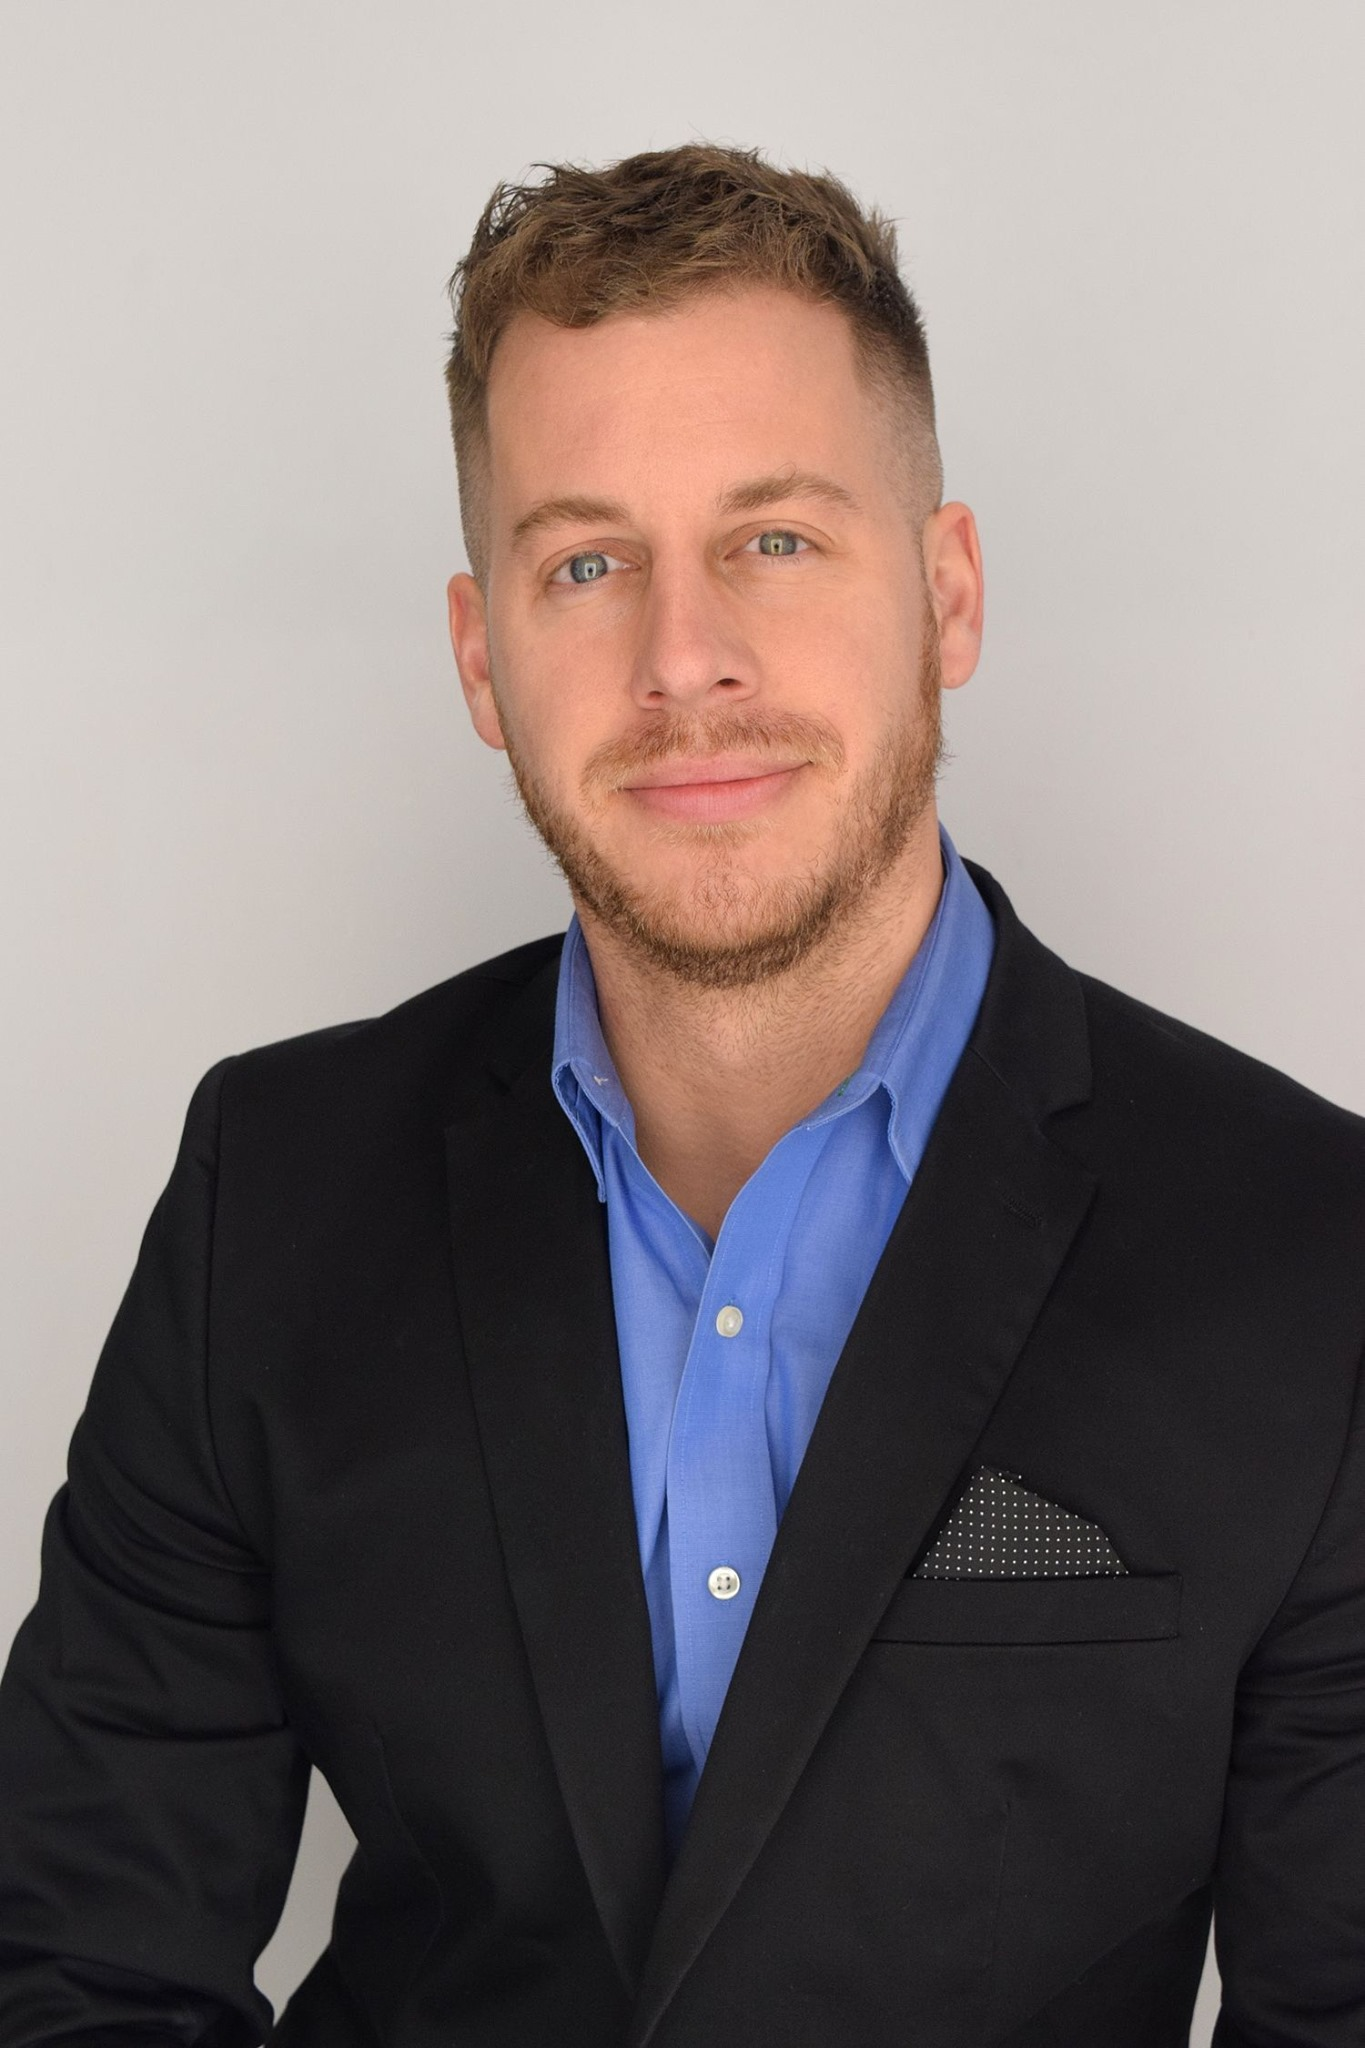
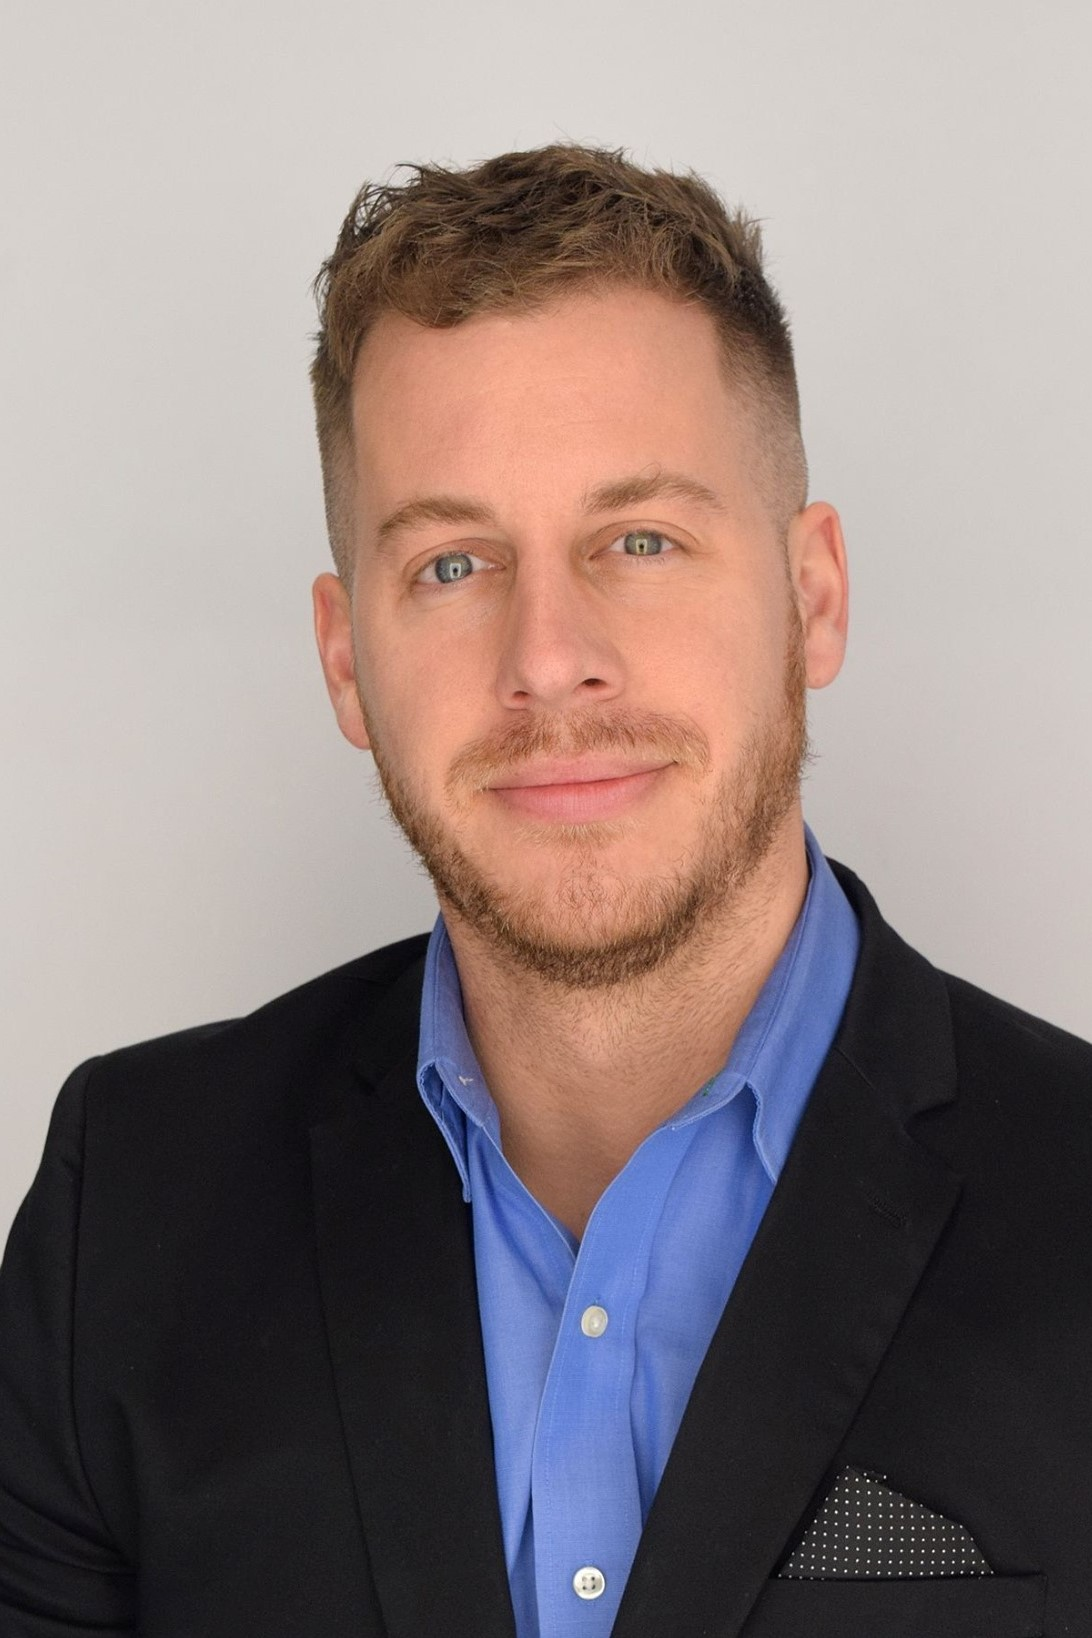
again

diff --git a/html/index.html b/html/index.html
@@ -88,7 +88,7 @@
 			<div class="inner">
 				<div class="wrapper">
 					<div class="avatar">
-						<div class="image" data-img-url="img/about/lyle.jpg"></div>
+						<div class="image" data-img-url="img/about/headshot.png"></div>
 					</div>
 					<div class="menu_list">
 						<ul class="transition_link">
@@ -109,7 +109,7 @@
 						</ul>
 					</div>
 					<div class="copyright">
-						<p>Copyright &copy; 2021</p>
+						<p>Copyright &copy; 2022</p>
 					</div>
 				</div>
 			</div>
@@ -120,7 +120,7 @@
 		<!-- MAINPART -->
 		<div class="cavani_tm_mainpart">
 			<div class="author_image">
-				<div class="main" data-img-url="img/lyleprofes.jpg"></div>
+				<div class="main" data-img-url="img/about/headshot.png"></div>
 				<div class="particle_wrapper">
 					<div id="particles-js"></div>
 				</div>
@@ -137,9 +137,8 @@
 								<span class="cd-headline loading-bar"> <!-- ANIMATE TEXT VALUES: zoom, rotate-1, letters type, letters rotate-2, loading-bar, slide, clip, letters rotate-3, letters scale, push,  -->
 									<span class="blc">Creative</span>
 									<span class="cd-words-wrapper">
-									  <b class="is-visible">Designer</b>
-									  <b>Developer</b>
-									  <b>Freelancer</b>
+									  <b class="is-visible">Developer</b>
+									
 									</span>
 								</span>
 							</h3>
@@ -161,17 +160,19 @@
 								</div>
 								<div class="wrapper">
 									<div class="left">
-										<p>Hello there! My name is <strong>Lyle Tilley</strong> I am a graphic designer, and I'm very passionate and dedicated to my work.</p>
-										<p>With 20 years experience as a professional a graphic designer, I have acquired the skills and knowledge necessary to make your project a success.</p>
+										<p>Hello there! My name is <strong>Lyle Tilley</strong> I am a developer, and I'm very passionate and dedicated to my work.</p>
+									
+										<p>Gym guy. Identical twin. Wannabe Eliott Alderson from Mr Robot.<br><br>
+											After working in advertising for years, I decided to make the jump to tech. With advertising, I loved working with clients content, and seeing results. I wanted to be more hands on, though - design and create. So I pursued web development. It's challenging, creative, and best of all - I am able to make a difference and SEE the difference on live websites - in turn seeing performance go up - this is what I strive for.</p>
 									</div>
 									<div class="right">
 										<ul>
-											<li><span class="first">Name:</span><span class="second">Lyle</span></li>
-											<li><span class="first">Address:</span><span class="second">Ave Street, New York, USA</span></li>
-											<li><span class="first">Study:</span><span class="second">Univercity of Oxford</span></li>
-											<li><span class="first">Degree:</span><span class="second">Master of Science</span></li>
-											<li><span class="first">Mail:</span><span class="second"><a href="#">hello@cavani.com</a></span></li>
-											<li><span class="first">Phone:</span><span class="second">+77 022 444 05 05</span></li>
+											<li><span class="first">Name:</span><span class="second">Lyle Tilley</span></li>
+											<li><span class="first">Address:</span><span class="second">Bedford, Nova Scotia</span></li>
+											<li><span class="first">Study:</span><span class="second">JUNO College Code Bootcamp</span></li>
+											<li><span class="first">Degree:</span><span class="second">BBA - Mount Saint Vincent University</span></li>
+											<li><span class="first">Mail:</span><span class="second"><a href="#">tilley_L@hotmail.com</a></span></li>
+											<li><span class="first">Phone:</span><span class="second">+902 877 4470</span></li>
 										</ul>
 									</div>
 								</div>
@@ -185,10 +186,12 @@
 										<div class="list">
 											<ul>
 												<li><i class="icon-right-dir"></i>Web Development</li>
-												<li><i class="icon-right-dir"></i>Graphic Design</li>
-												<li><i class="icon-right-dir"></i>Landing Page</li>
+												<li><i class="icon-right-dir"></i>HTML / CSS / JAVAScript</li>
+												<li><i class="icon-right-dir"></i>Landing Pages</li>
 												<li><i class="icon-right-dir"></i>On-Page SEO</li>
 												<li><i class="icon-right-dir"></i>Web Hosting</li>
+												<li><i class="icon-right-dir"></i>DeBugging</li>
+												<li><i class="icon-right-dir"></i>React</li>
 											</ul>
 										</div>
 									</div>
@@ -198,11 +201,11 @@
 										</div>
 										<div class="list">
 											<ul>
-												<li><i class="icon-right-dir"></i>Painting &amp; Drawing</li>
+												<li><i class="icon-right-dir"></i>Weight Lifting</li>
 												<li><i class="icon-right-dir"></i>Reading &amp; Writing</li>
-												<li><i class="icon-right-dir"></i>Music &amp; Cinema</li>
-												<li><i class="icon-right-dir"></i>Travel &amp; Picnik</li>
-												<li><i class="icon-right-dir"></i>Rain &amp; Snow</li>
+												<li><i class="icon-right-dir"></i>Cinema</li>
+												<li><i class="icon-right-dir"></i>Travelling</li>
+												
 											</ul>
 										</div>
 									</div>
@@ -224,7 +227,15 @@
 												<div class="background"><div class="bar"><div class="bar_in"></div></div></div>
 											</div>
 											<div class="progress_inner" data-value="90">
-												<span><span class="label">WordPress</span><span class="number">90%</span></span>
+												<span><span class="label">React</span><span class="number">90%</span></span>
+												<div class="background"><div class="bar"><div class="bar_in"></div></div></div>
+											</div>
+											<div class="progress_inner" data-value="80">
+												<span><span class="label">WordPress</span><span class="number">80%</span></span>
+												<div class="background"><div class="bar"><div class="bar_in"></div></div></div>
+											</div>
+											<div class="progress_inner" data-value="90">
+												<span><span class="label">Shopify</span><span class="number">90%</span></span>
 												<div class="background"><div class="bar"><div class="bar_in"></div></div></div>
 											</div>
 										</div>
@@ -259,33 +270,33 @@
 													<li>
 														<div class="list_inner">
 															<div class="time">
-																<span>2014 - 2016</span>
+																<span>2010 - 2015</span>
 															</div>
 															<div class="place">
-																<h3>Oxford Univercity</h3>
-																<span>Master Degree</span>
+																<h3>Mount Saint Vincent University</h3>
+																<span>BBA, minor in IT</span>
 															</div>
 														</div>
 													</li>
 													<li>
 														<div class="list_inner">
 															<div class="time">
-																<span>2010 - 2014</span>
+																<span>2020 - 2021</span>
 															</div>
 															<div class="place">
-																<h3>Texas Univercity</h3>
-																<span>Bachelor Degree</span>
+																<h3>JUNO College</h3>
+																<span>Web Development Bootcamp</span>
 															</div>
 														</div>
 													</li>
 													<li>
 														<div class="list_inner">
 															<div class="time">
-																<span>2008 - 2010</span>
+																<span>2019</span>
 															</div>
 															<div class="place">
-																<h3>Simone College</h3>
-																<span>Associate Degree</span>
+																<h3>eCornell</h3>
+																<span>HTML/CSS/JAVAScript Certificate</span>
 															</div>
 														</div>
 													</li>
@@ -303,15 +314,15 @@
 													<li>
 														<div class="list_inner">
 															<div class="time">
-																<span>2018 - running</span>
+																<span>2018 - Present</span>
 															</div>
 															<div class="place">
-																<h3>Envato Elements</h3>
+																<h3>See Portfolio</h3>
 																<span>Exclusive Author</span>
 															</div>
 														</div>
 													</li>
-													<li>
+													<!-- <li>
 														<div class="list_inner">
 															<div class="time">
 																<span>2015 - 2018</span>
@@ -320,9 +331,9 @@
 																<h3>Avo Corporation</h3>
 																<span>Content Manager</span>
 															</div>
-														</div>
+														</div> -->
 													</li>
-													<li>
+													<!-- <li>
 														<div class="list_inner">
 															<div class="time">
 																<span>2012 - 2015</span>
@@ -331,7 +342,7 @@
 																<h3>FC Barcelona</h3>
 																<span>Football Player</span>
 															</div>
-														</div>
+														</div> -->
 													</li>
 												</ul>
 											</div>
@@ -339,7 +350,7 @@
 									</div>
 								</div>
 							</div>
-							<div class="partners">
+							<!-- <div class="partners">
 								<div class="cavani_tm_title">
 									<span>Partners</span>
 								</div>
@@ -395,7 +406,7 @@
 										</li>
 									</ul>
 								</div>	
-							</div>
+							</div> -->
 							<div class="testimonials">
 								<div class="cavani_tm_title">
 									<span>Testimonials</span>
@@ -466,9 +477,9 @@
 					<div class="section_inner">
 						<div class="cavani_tm_portfolio">
 							<div class="cavani_tm_title">
-								<span>Creative Portfolio</span>
+								<span>Lyle's Portfolio</span>
 							</div>
-							<div class="portfolio_filter">
+							<!-- <div class="portfolio_filter">
 								<ul>
 									<li><a href="#" class="current" data-filter="*">All</a></li>
 									<li><a href="#" data-filter=".vimeo">Vimeo</a></li>
@@ -477,7 +488,9 @@
 									<li><a href="#" data-filter=".image">Image</a></li>
 									<li><a href="#" data-filter=".detail">Detail</a></li>
 								</ul>
-							</div>
+							</div> -->
+							<br>
+							<br>
 							<div class="portfolio_list">
 								<ul class="gallery_zoom">
 									<li class="youtube">
@@ -843,26 +856,26 @@
 					<div class="section_inner">
 						<div class="cavani_tm_contact">
 							<div class="cavani_tm_title">
-								<span>Get in Touch</span>
+								<span>Get in Touch with lyle</span>
 							</div>
 							<div class="short_info">
 								<ul>
 									<li>
 										<div class="list_inner">
 											<i class="icon-location"></i>
-											<span>Ave Street, New York, USA</span>
+											<span>Halifax, Nova Scotia</span>
 										</div>
 									</li>
 									<li>
 										<div class="list_inner">
 											<i class="icon-mail-3"></i>
-											<span><a href="#">hello@cavani.com</a></span>
+											<span><a href="#">tilley_L@hotmail.com</a></span>
 										</div>
 									</li>
 									<li>
 										<div class="list_inner">
 											<i class="icon-mobile"></i>
-											<span>+77 022 444 05 05</span>
+											<span>+902 877 4470</span>
 										</div>
 									</li>
 								</ul>
@@ -917,11 +930,11 @@
 			</div>
 			<div class="social">
 				<ul>
-					<li><a href="#"><img class="svg" src="img/svg/social/facebook.svg" alt="" /></a></li>
-					<li><a href="#"><img class="svg" src="img/svg/social/twitter.svg" alt="" /></a></li>
-					<li><a href="#"><img class="svg" src="img/svg/social/instagram.svg" alt="" /></a></li>
+					<li><a href="#"><img class="svg" src="img/svg/social/github.svg" alt="" /></a></li>
+					<li><a href="#"><i class="fa fa-brands fa-linkedin"></i></a></li>
+					<!-- <li><a href="#"><img class="svg" src="img/svg/social/instagram.svg" alt="" /></a></li>
 					<li><a href="#"><img class="svg" src="img/svg/social/dribbble.svg" alt="" /></a></li>
-					<li><a href="#"><img class="svg" src="img/svg/social/tik-tok.svg" alt="" /></a></li>
+					<li><a href="#"><img class="svg" src="img/svg/social/tik-tok.svg" alt="" /></a></li> -->
 				</ul>
 			</div>
 		</div>
